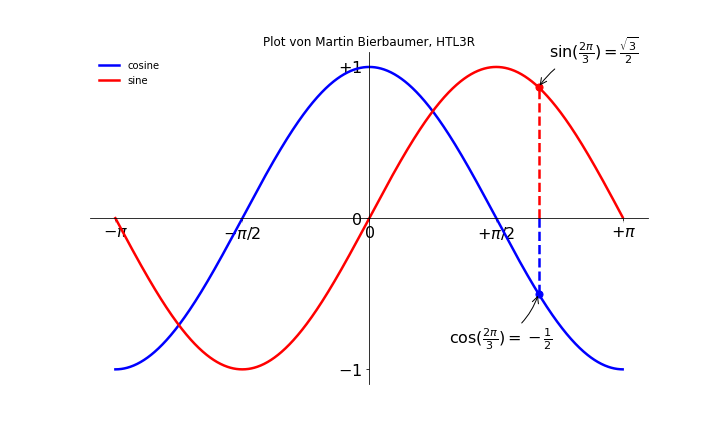
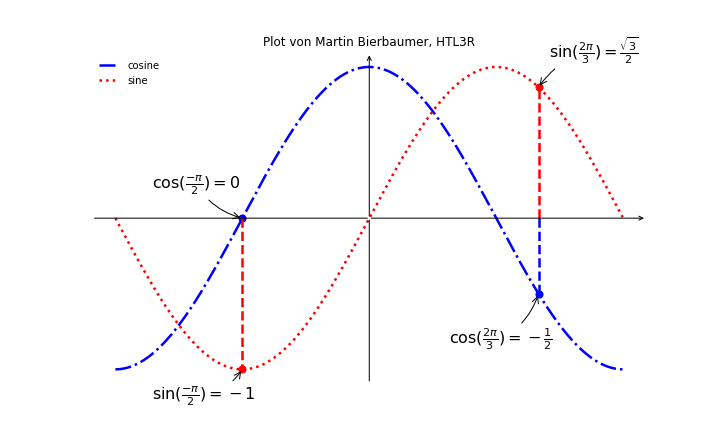
Plot A3 mit Zusatz gelöst

diff --git a/Plot/Plot.py b/Plot/Plot.py
@@ -10,8 +10,8 @@ plt.xlim(min(X)*1.1, max(X)*1.1)
 plt.ylim(min(C)*1.1, max(C)*1.1)
 plt.xticks([-PI, -PI/2, 0, PI/2, PI], [r'$-\pi$', r'$-\pi/2$', r'$0$', r'$+\pi/2$', r'$+\pi$'])
 plt.yticks([-1, 0, +1], [r'$-1$', r'$0$', r'$+1$'])
-plt.plot(X, C, color="blue", linewidth=2.5, linestyle="-", label="cosine")
-plt.plot(X, S, color="red", linewidth=2.5, linestyle="-", label="sine")
+plt.plot(X, C, color="blue", linewidth=2.5, linestyle="-.", label="cosine")
+plt.plot(X, S, color="red", linewidth=2.5, linestyle=":", label="sine")
 plt.legend(loc='upper left', frameon=False)
 ax = plt.gca()
 ax.spines['right'].set_color('none')
@@ -28,10 +28,22 @@ plt.annotate(r'$\sin(\frac{2\pi}{3})=\frac{\sqrt{3}}{2}$',xy=(t, math.sin(t)), x
 plt.plot([t,t],[0,math.sin(t)], color ='red', linewidth=2.5, linestyle="--")
 plt.scatter([t,],[math.sin(t),], 50, color ='red')
 plt.annotate(r'$\cos(\frac{2\pi}{3})=-\frac{1}{2}$',xy=(t, math.cos(t)), xycoords='data',xytext=(-90, -50), textcoords='offset points', fontsize=16,arrowprops=dict(arrowstyle="->", connectionstyle="arc3,rad=.2"))
+t = -PI/2
+plt.plot([t,t],[0,math.cos(t)], color ='blue', linewidth=2.5, linestyle="--")
+plt.scatter([t,],[math.cos(t),], 50, color ='blue')
+plt.annotate(r'$\sin(\frac{-\pi}{2})=-1$',xy=(t, math.sin(t)), xycoords='data',xytext=(-90, -30), textcoords='offset points', fontsize=16,arrowprops=dict(arrowstyle="->", connectionstyle="arc3,rad=.2"))
+plt.plot([t,t],[0,math.sin(t)], color ='red', linewidth=2.5, linestyle="--")
+plt.scatter([t,],[math.sin(t),], 50, color ='red')
+plt.annotate(r'$\cos(\frac{-\pi}{2})=0$',xy=(t, math.cos(t)), xycoords='data',xytext=(-90, 30), textcoords='offset points', fontsize=16,arrowprops=dict(arrowstyle="->", connectionstyle="arc3,rad=.2"))
 for label in ax.get_xticklabels() + ax.get_yticklabels():
     print(label)
     label.set_fontsize(16)
     label.set_bbox(dict(facecolor='white', edgecolor='None', alpha=0.65))
     ax.set_axisbelow(True)
+plt.annotate("", xytext=(0, 0), xy=(PI * 1.09, 0), arrowprops=dict(arrowstyle="->", color='black'))
+plt.annotate("", xytext=(0, 0), xy=(0, 1.09), arrowprops=dict(arrowstyle="->", color='black'))
+plt.annotate("", xytext=(0, 0), xy=(-PI * 1.09, 0), arrowprops=dict(arrowstyle="-", color='black'))
+plt.annotate("", xytext=(0, 0), xy=(0, -1.09), arrowprops=dict(arrowstyle="-", color='black'))
+plt.axis('off')
 plt.savefig("plot1_Bierbaumer.png",dpi=72)
 plt.show()
